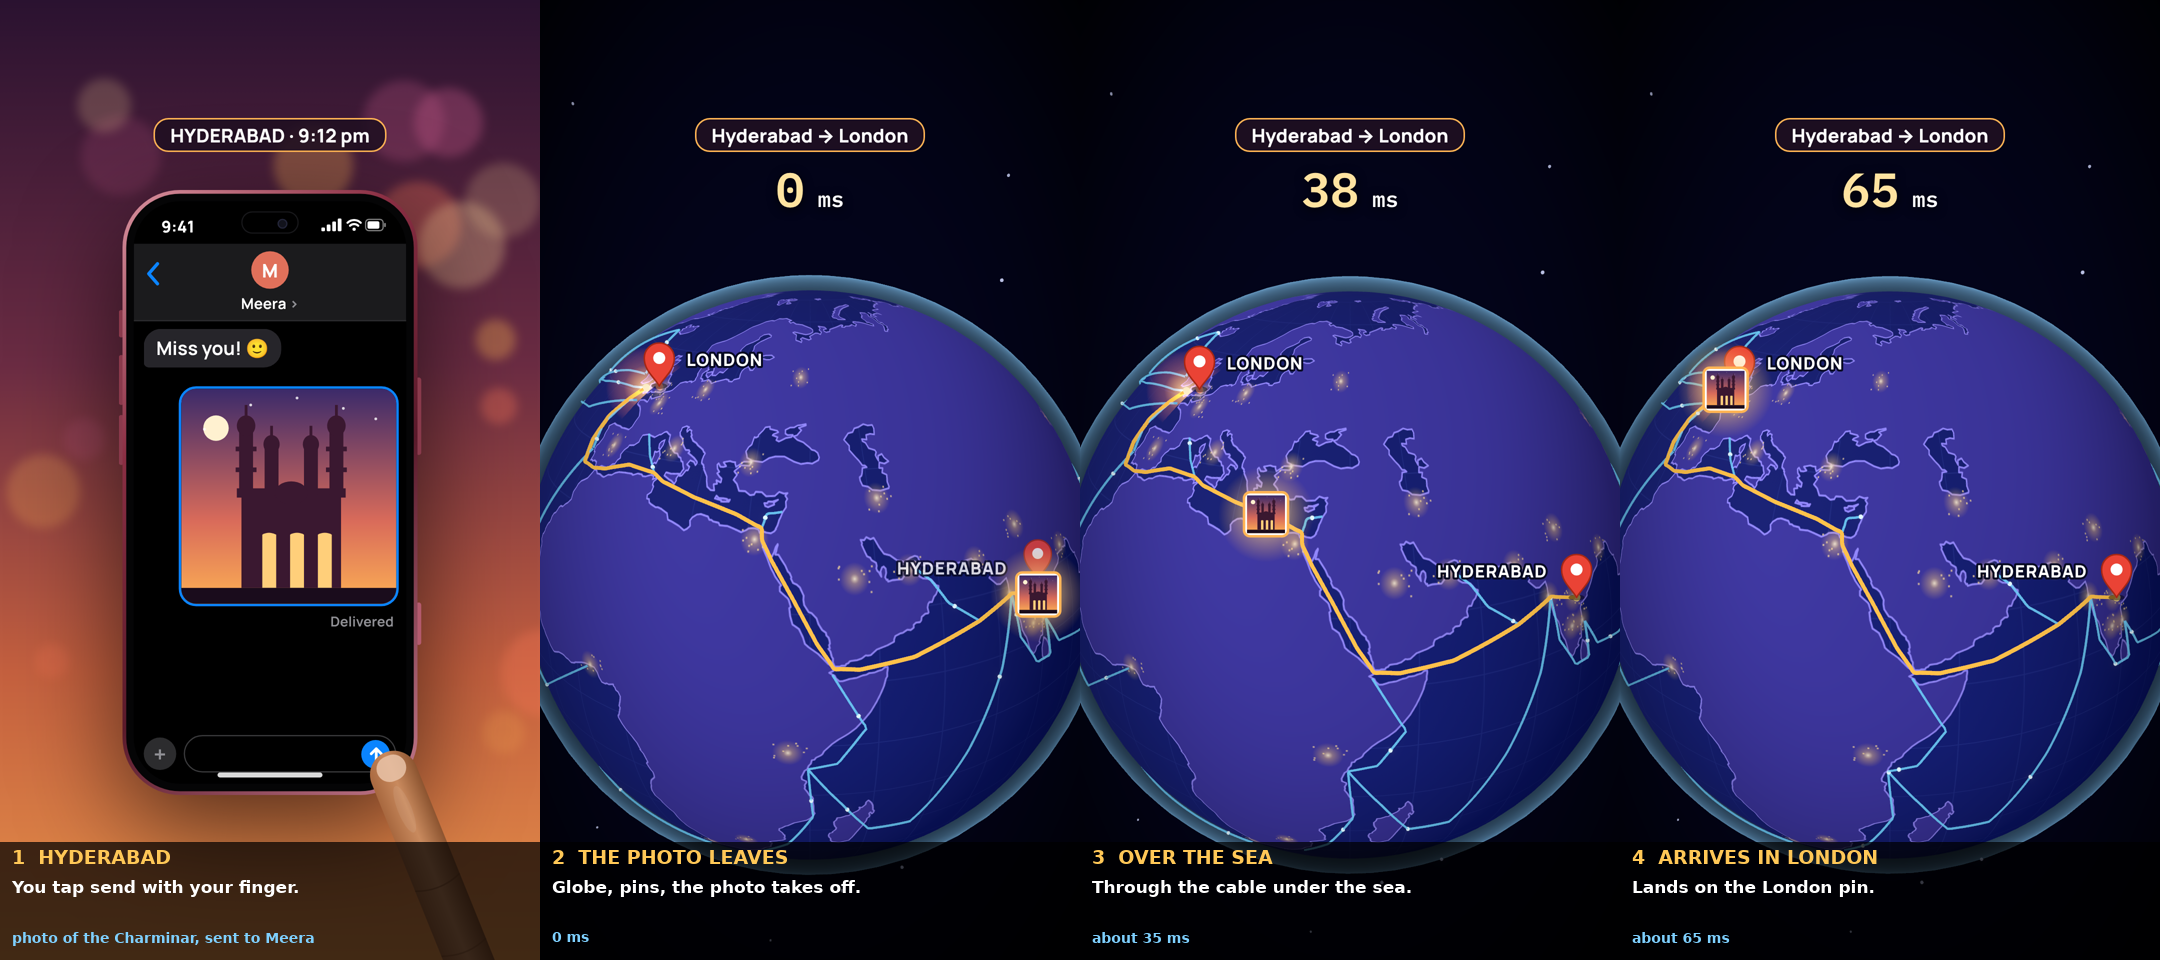
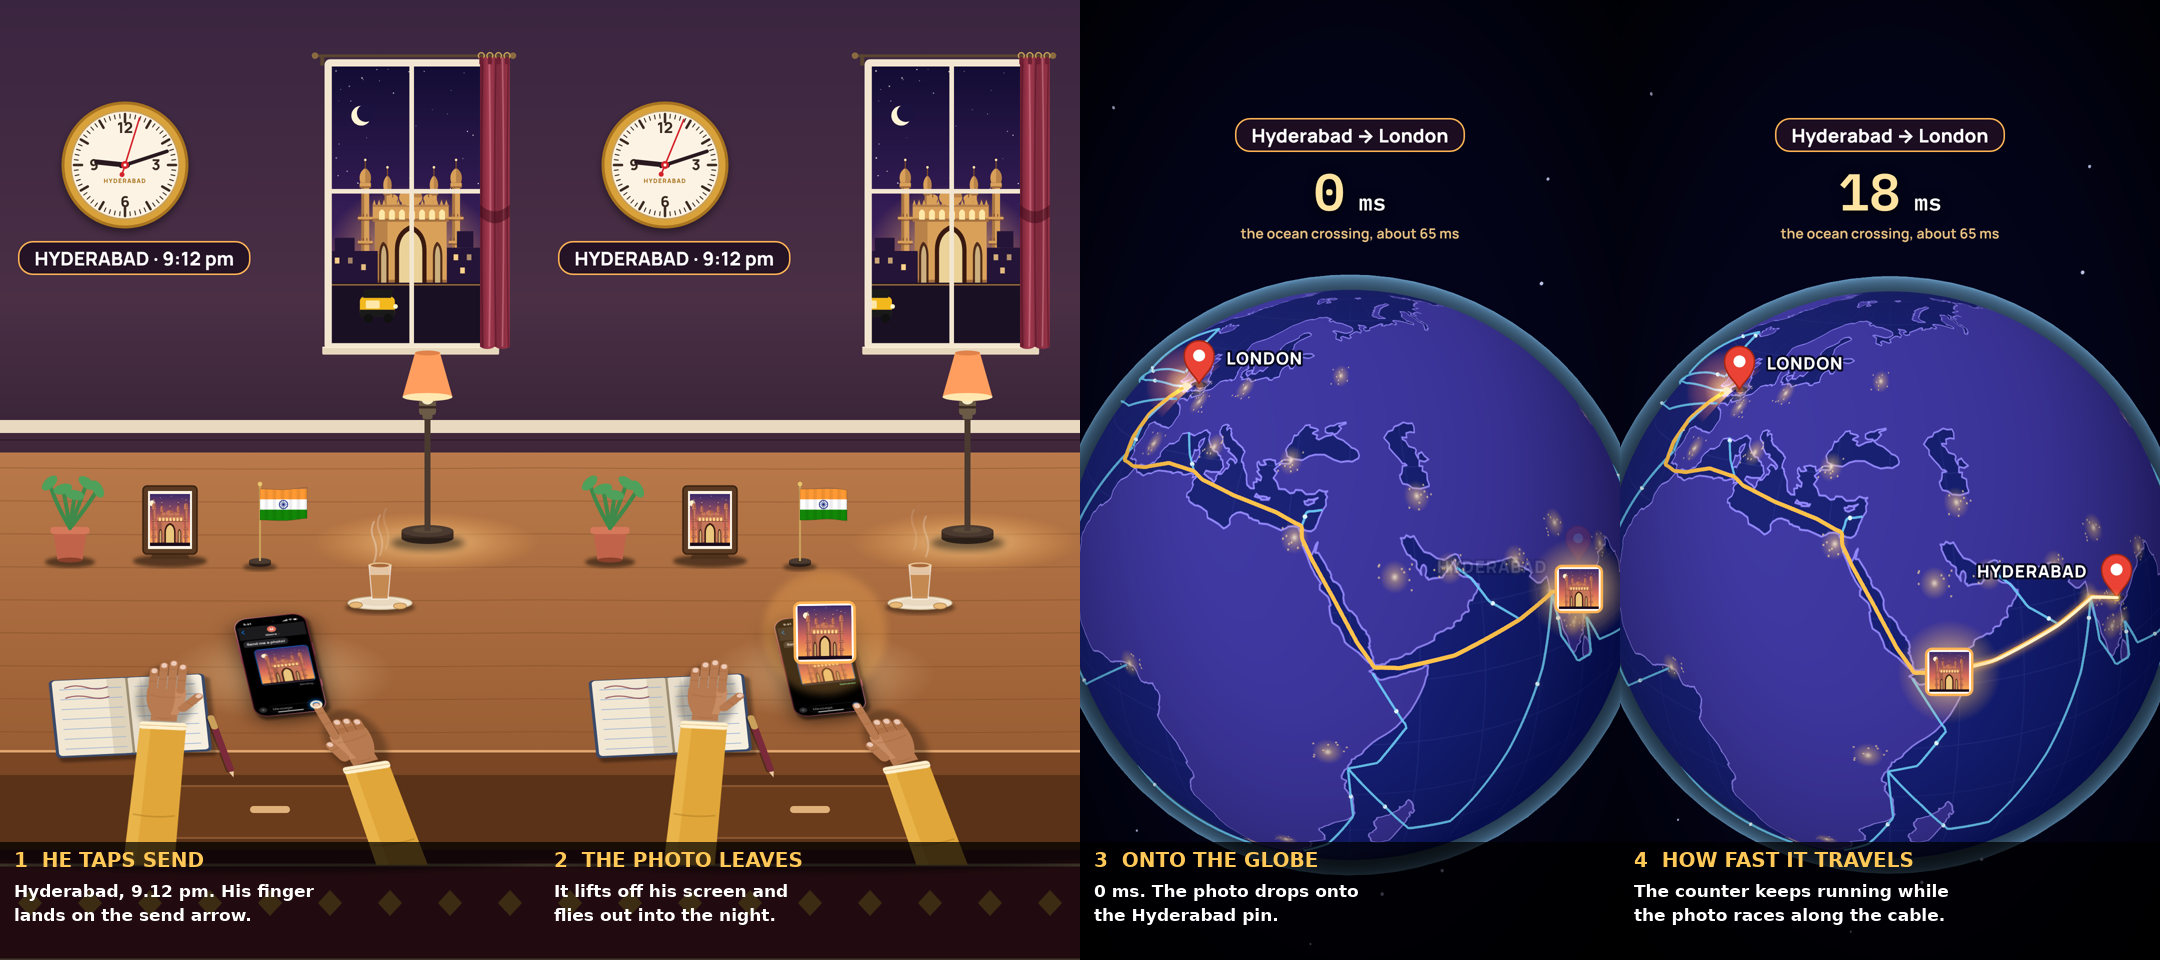
Part 2 hook only: 8 images (tap send, photo leaves, globe with ms counter, London buzz, notification zoom)
Claude-Session: https://claude.ai/code/session_01GXcKc5WpkD8jhBf44cT6jS

diff --git a/internet/part2/HOOK.md b/internet/part2/HOOK.md
@@ -52,3 +52,6 @@ Same desk style as London (locked) with his own look: purple-plum wall, maroon r
 
 ## Flags and a proper Charminar (Harsh, 28 Nov 2026)
 Small waving desk flags on both tables: the Indian tricolour on Arjun's, the Union Jack on Meera's (DeskFlag in Story.tsx; London room otherwise unchanged). The Charminar is redrawn properly (CharminarArt: four minarets with balconies and bulb domes, parapet, central dome, big central arch, small arched windows) and used in his window, in the framed picture on his desk and in the photo he sends. A framed dog picture was offered instead of the Charminar one but not added (desks are already full); ask Harsh if he wants it. Stills: part2/storyboard/flags-charminar/.
+
+## HOOK ONLY, as 8 images (Harsh, 28 Nov 2026: "only hook, images, not the whole video"): internet/part2/storyboard/hook-final/
+1 he taps send (Hyderabad 9:12 pm) - 2 the photo leaves his screen - 3 onto the globe, 0 ms - 4 how fast it travels, counter running - 5 almost there, 63 ms - 6 lands in London, 65 ms - 7 her phone buzzes (London 3:42 pm) - 8 the notification on her lock screen, zoomed. The first full video cut (internet/video/internet-part2-v1.mp4) went beyond this; Harsh wants the hook first and approved before the rest.
